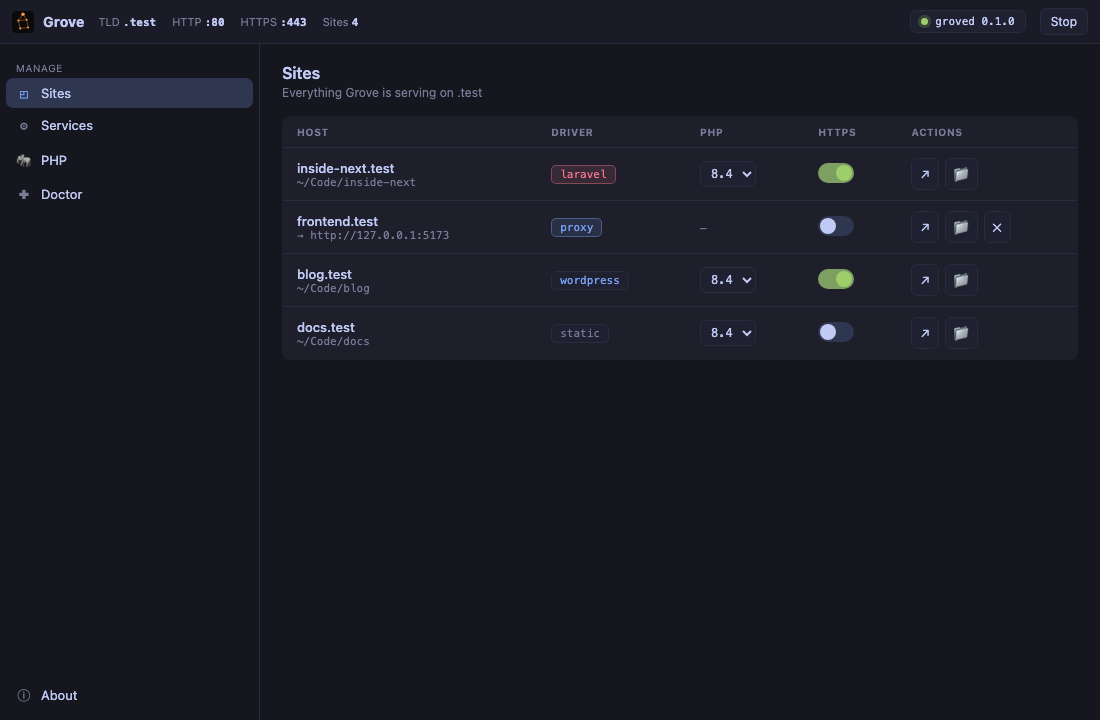
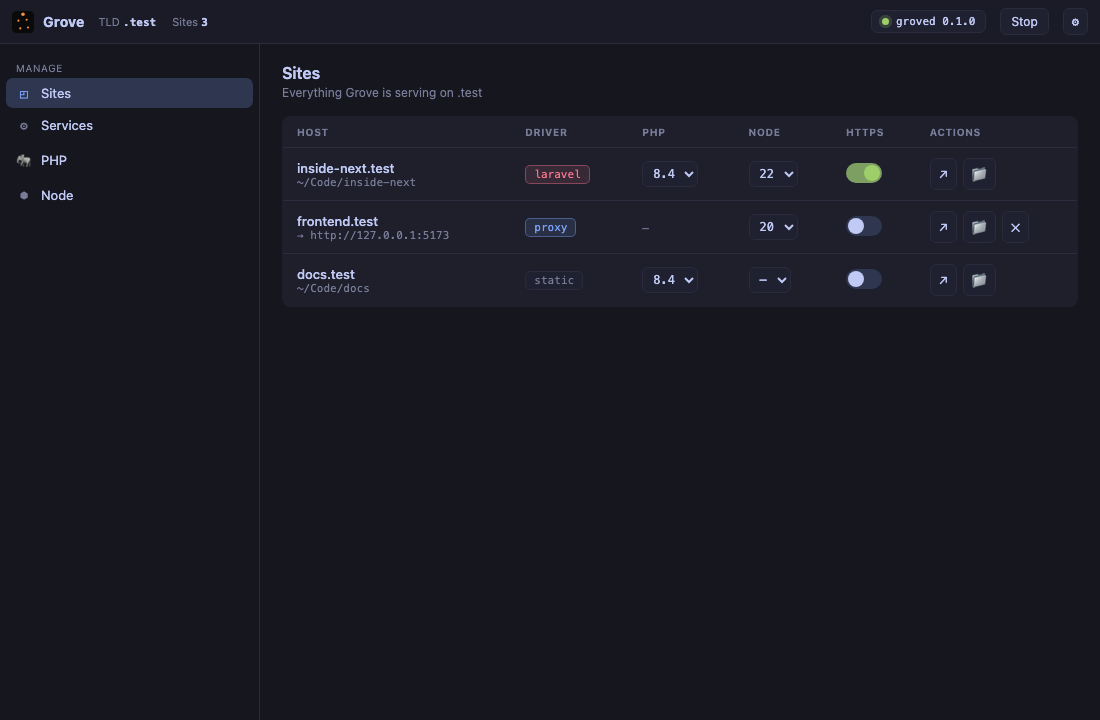
feat: per-site Node.js version (config + IPC SiteNode + CLI 'node use/unuse' + GUI Node column)

diff --git a/crates/grove-gui/ui/src/components/SiteTable.svelte b/crates/grove-gui/ui/src/components/SiteTable.svelte
@@ -5,11 +5,13 @@
   let {
     sites,
     phpVersions,
+    nodeVersions,
     notify,
     onchange,
   }: {
     sites: ResolvedSite[];
     phpVersions: string[];
+    nodeVersions: string[];
     notify: (m: string) => void;
     onchange: () => void;
   } = $props();
@@ -25,6 +27,7 @@
 
   const toggleSecure = (s: ResolvedSite) => run(api.secure(s.name, !s.secure));
   const setPhp = (s: ResolvedSite, v: string) => run(api.isolate(s.name, v));
+  const setNode = (s: ResolvedSite, v: string) => run(api.setNode(s.name, v === "" ? null : v));
   const open = (s: ResolvedSite) => api.openUrl(url(s));
   const reveal = (s: ResolvedSite) => api.openPath(s.path);
   const unlink = (s: ResolvedSite) => run(api.unlink(s.name));
@@ -45,6 +48,7 @@
         <th>Host</th>
         <th>Driver</th>
         <th>PHP</th>
+        <th>Node</th>
         <th>HTTPS</th>
         <th style="width:1%">Actions</th>
       </tr>
@@ -72,6 +76,21 @@
                 {/each}
               </select>
             {/if}
+          </td>
+          <td>
+            <select
+              class="php"
+              value={s.node ?? ""}
+              onchange={(e) => setNode(s, (e.currentTarget as HTMLSelectElement).value)}
+            >
+              <option value="">—</option>
+              {#if s.node && !nodeVersions.includes(s.node)}
+                <option value={s.node}>{s.node}</option>
+              {/if}
+              {#each nodeVersions as v}
+                <option value={v}>{v}</option>
+              {/each}
+            </select>
           </td>
           <td>
             <button

diff --git a/crates/grove-gui/ui/src/App.svelte b/crates/grove-gui/ui/src/App.svelte
@@ -23,6 +23,7 @@
   let status = $state<DaemonStatus | null>(null);
   let sites = $state<ResolvedSite[]>([]);
   let php = $state<PhpBuild[]>([]);
+  let nodeVersions = $state<string[]>([]);
   let diagnostics = $state<DiagnosticEntry[]>([]);
   let toast = $state<string | null>(null);
   let loading = $state(true);
@@ -48,6 +49,9 @@
         api.listSites(),
         api.phpList(),
       ]);
+      nodeVersions = (await api.nodeList())
+        .filter((n) => n.installed)
+        .map((n) => n.major);
       if (tab === "doctor") diagnostics = await api.doctor();
     } catch (e) {
       notify(String(e));
@@ -180,7 +184,7 @@
       {:else if tab === "sites"}
         <h2>Sites</h2>
         <p class="subtitle">Everything Grove is serving on .{status?.tld ?? "test"}</p>
-        <SiteTable {sites} {phpVersions} {notify} onchange={refresh} />
+        <SiteTable {sites} {phpVersions} {nodeVersions} {notify} onchange={refresh} />
       {:else if tab === "services"}
         <h2>Services</h2>
         <p class="subtitle">Local services managed by Grove</p>

diff --git a/crates/grove-gui/ui/src/lib/api.ts b/crates/grove-gui/ui/src/lib/api.ts
@@ -29,6 +29,8 @@ export const api = {
     invoke("secure_site", { name, enable }),
   isolate: (name: string, version: string | null): Promise<string> =>
     invoke("isolate_site", { name, version }),
+  setNode: (name: string, version: string | null): Promise<string> =>
+    invoke("site_node", { name, version }),
   park: (path: string): Promise<string> => invoke("park_dir", { path }),
   unpark: (path: string): Promise<string> => invoke("unpark_dir", { path }),
   link: (path: string, name: string | null): Promise<string> =>

diff --git a/crates/grove-gui/ui/src/lib/types.ts b/crates/grove-gui/ui/src/lib/types.ts
@@ -11,6 +11,7 @@ export interface ResolvedSite {
   document_root: string;
   driver: Driver;
   php: string;
+  node?: string;
   secure: boolean;
   kind: SiteKind;
   proxy_to?: string;

diff --git a/crates/grove-daemon/src/commands.rs b/crates/grove-daemon/src/commands.rs
@@ -106,6 +106,7 @@ async fn handle(state: &Arc<DaemonState>, req: Request) -> anyhow::Result<Respon
                     name: site_name.clone(),
                     path: Some(PathBuf::from(path)),
                     php: None,
+                    node: None,
                     secure: false,
                     driver: None,
                     proxy_to: None,
@@ -148,6 +149,15 @@ async fn handle(state: &Arc<DaemonState>, req: Request) -> anyhow::Result<Respon
             Ok(Response::ok(ResponseData::Message(msg)))
         }
 
+        Request::SiteNode { name, version } => {
+            mutate_site(state, &name, |sc| sc.node = version.clone()).await?;
+            let msg = match version {
+                Some(v) => format!("{name} pinned to node@{v}"),
+                None => format!("{name} node version cleared"),
+            };
+            Ok(Response::ok(ResponseData::Message(msg)))
+        }
+
         Request::Proxy { name, url } => {
             {
                 let mut config = state.config.lock().await;
@@ -156,6 +166,7 @@ async fn handle(state: &Arc<DaemonState>, req: Request) -> anyhow::Result<Respon
                     name: name.clone(),
                     path: None,
                     php: None,
+                    node: None,
                     secure: false,
                     driver: Some(grove_core::Driver::Proxy),
                     proxy_to: Some(url.clone()),
@@ -431,6 +442,7 @@ async fn mutate_site(
                 name: name.to_string(),
                 path: Some(resolved.path.clone()),
                 php: None,
+                node: resolved.node.clone(),
                 secure: resolved.secure,
                 driver: Some(resolved.driver),
                 proxy_to: resolved.proxy_to.clone(),

diff --git a/crates/grove-cli/src/main.rs b/crates/grove-cli/src/main.rs
@@ -151,6 +151,14 @@ fn to_request(cmd: Command, _paths: &GrovePaths) -> anyhow::Result<Request> {
         Command::Node { action } => match action {
             NodeAction::List => Request::NodeList,
             NodeAction::Install { version } => Request::NodeInstall { version },
+            NodeAction::Use { site, version } => Request::SiteNode {
+                name: site,
+                version: Some(version),
+            },
+            NodeAction::Unuse { site } => Request::SiteNode {
+                name: site,
+                version: None,
+            },
         },
         Command::Service { action } => match action {
             ServiceAction::List => Request::ServiceList,
@@ -422,6 +430,7 @@ mod lifecycle {
                             name,
                             path: Some(target),
                             php: None,
+                            node: None,
                             secure: false,
                             driver: None,
                             proxy_to: None,

diff --git a/crates/grove-gui/src/main.rs b/crates/grove-gui/src/main.rs
@@ -214,6 +214,11 @@ async fn isolate_site(name: String, version: Option<String>) -> CmdResult<String
 }
 
 #[tauri::command]
+async fn site_node(name: String, version: Option<String>) -> CmdResult<String> {
+    message(Request::SiteNode { name, version }).await
+}
+
+#[tauri::command]
 async fn park_dir(path: String) -> CmdResult<String> {
     message(Request::Park { path }).await
 }
@@ -354,6 +359,7 @@ fn main() {
             php_list,
             secure_site,
             isolate_site,
+            site_node,
             park_dir,
             unpark_dir,
             link_dir,

diff --git a/crates/grove-core/src/site.rs b/crates/grove-core/src/site.rs
@@ -28,6 +28,9 @@ pub struct ResolvedSite {
     pub document_root: PathBuf,
     pub driver: Driver,
     pub php: String,
+    /// Node.js version pinned for this site, if any.
+    #[serde(skip_serializing_if = "Option::is_none")]
+    pub node: Option<String>,
     pub secure: bool,
     pub kind: SiteKind,
     #[serde(skip_serializing_if = "Option::is_none")]
@@ -44,6 +47,7 @@ impl ResolvedSite {
         path: PathBuf,
         plan: DriverPlan,
         php: String,
+        node: Option<String>,
         secure: bool,
         kind: SiteKind,
         proxy_to: Option<String>,
@@ -56,6 +60,7 @@ impl ResolvedSite {
             document_root: plan.document_root,
             driver: plan.driver,
             php,
+            node,
             secure,
             kind,
             proxy_to,

diff --git a/crates/grove-ipc/src/protocol.rs b/crates/grove-ipc/src/protocol.rs
@@ -31,6 +31,11 @@ pub enum Request {
         name: String,
         version: Option<String>,
     },
+    /// Pin a Node.js version for a site (clear when `version` is None).
+    SiteNode {
+        name: String,
+        version: Option<String>,
+    },
     /// Route a `*.tld` host to a running upstream dev server.
     Proxy { name: String, url: String },
     /// Set the global default PHP version (`grove use`).

diff --git a/crates/grove-cli/src/cli.rs b/crates/grove-cli/src/cli.rs
@@ -167,6 +167,10 @@ pub enum NodeAction {
     List,
     /// Download + install a Node version (major like 22, or exact 22.23.1).
     Install { version: String },
+    /// Pin a Node version for a site.
+    Use { site: String, version: String },
+    /// Clear a site's pinned Node version.
+    Unuse { site: String },
 }
 
 #[derive(Subcommand, Debug)]

diff --git a/crates/grove-core/src/config.rs b/crates/grove-core/src/config.rs
@@ -125,6 +125,9 @@ pub struct SiteConfig {
     /// PHP version override (isolate). Falls back to `general.default_php`.
     #[serde(skip_serializing_if = "Option::is_none")]
     pub php: Option<String>,
+    /// Node.js version pinned for this site (used by tooling / dev servers).
+    #[serde(skip_serializing_if = "Option::is_none")]
+    pub node: Option<String>,
     #[serde(default)]
     pub secure: bool,
     /// Explicit driver override; otherwise auto-detected.

diff --git a/crates/grove-core/src/registry.rs b/crates/grove-core/src/registry.rs
@@ -52,6 +52,7 @@ impl SiteRegistry {
                     path.clone(),
                     plan,
                     default_php.clone(),
+                    None,
                     false,
                     SiteKind::Parked,
                     None,
@@ -128,6 +129,7 @@ fn resolve_explicit(sc: &SiteConfig, tld: &str, default_php: &str) -> Option<Res
         path,
         plan,
         php,
+        sc.node.clone(),
         sc.secure,
         SiteKind::Linked,
         sc.proxy_to.clone(),